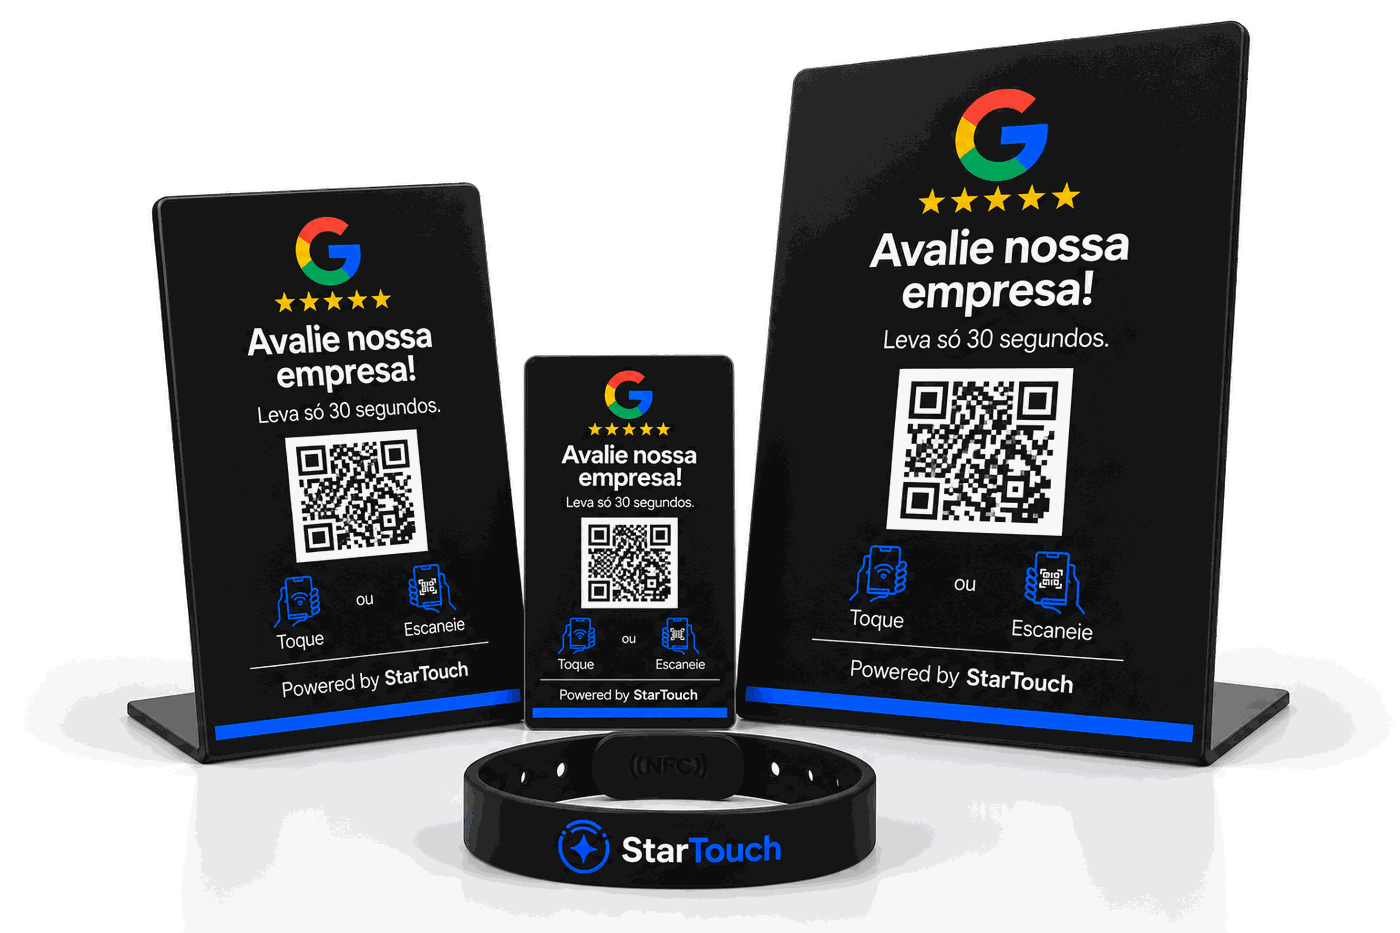
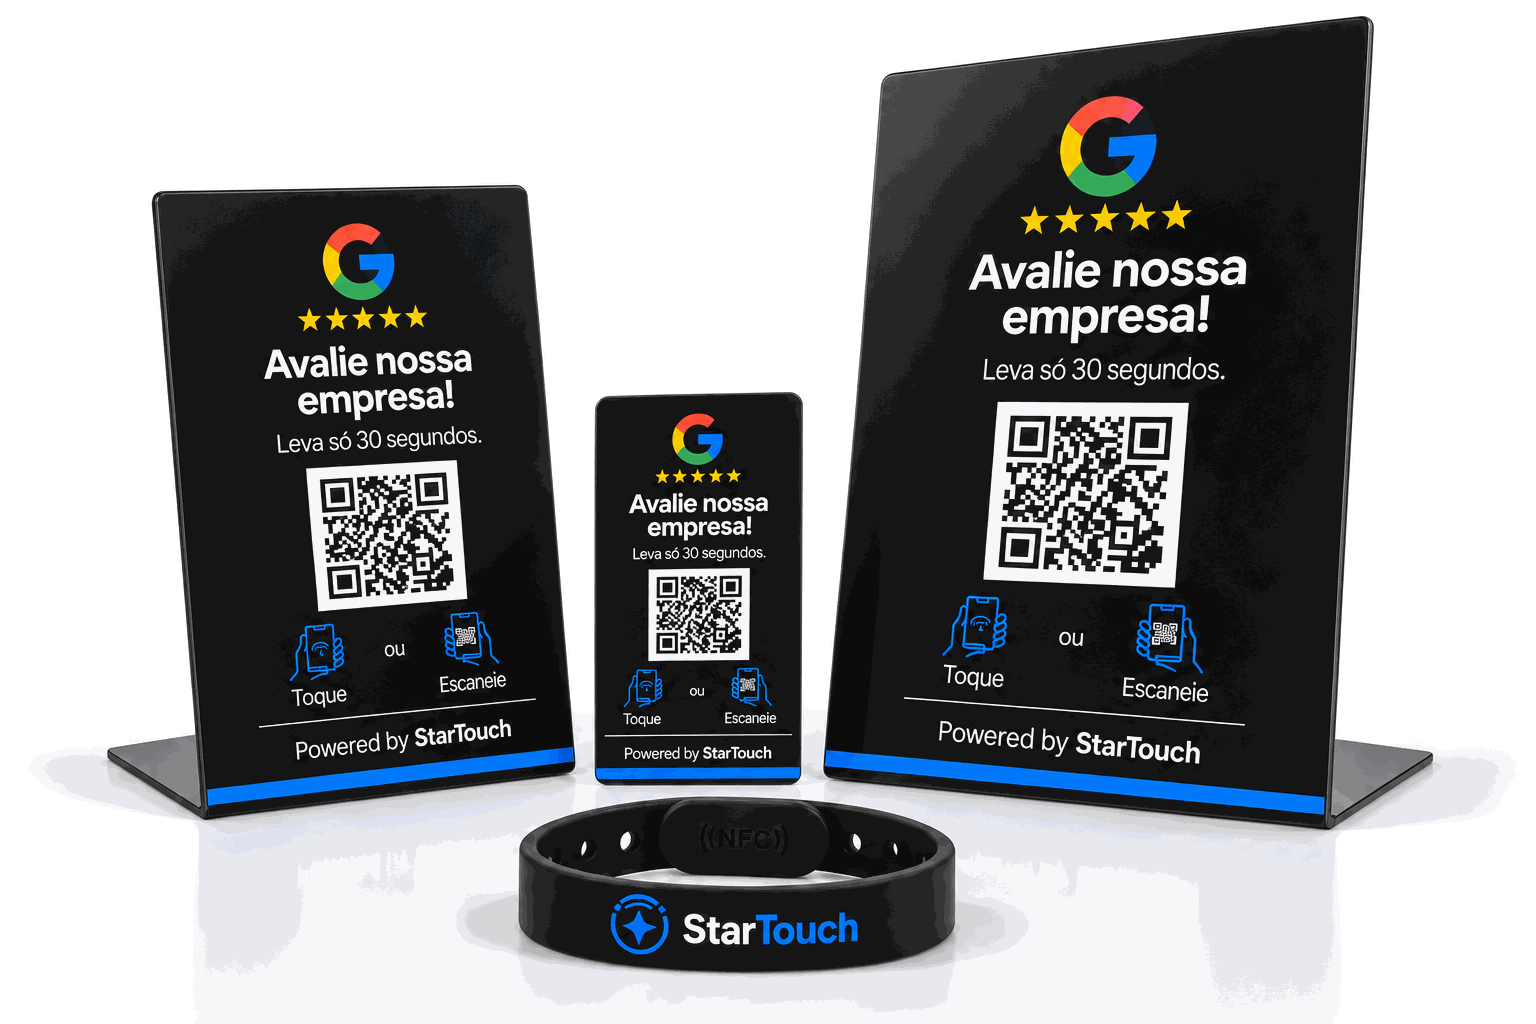
feat(revenda): foto nova da linha no topo — melhor iluminacao, mesma vaga
Versao que o Ricardo aprovou. Iluminacao mais limpa, reflexos sob as pecas e
o QR legivel mesmo reduzido.

VINHA COM FUNDO BRANCO OPACO, e a anterior era transparente. Sobre o degrade
do topo (#fff -> #f9fbff com um halo azul no canto) isso deixaria um
retangulo branco visivel. Recortada com flood fill a partir dos quatro
cantos, thresh 18 — baixo de proposito, porque o que corre risco aqui sao as
SOMBRAS sob os produtos: threshold agressivo as come junto com o fundo e as
pecas ficam flutuando sem chao.

Conferi compondo a imagem sobre o degrade REAL do hero, gerado pixel a pixel
com as mesmas cores do CSS — nao sobre xadrez nem sobre branco chapado. E a
unica forma de ver halo de verdade: sobre branco puro, halo branco nao
aparece.

1.704 KB -> 129 KB. As dimensoes no HTML foram corrigidas junto (era 1400x933,
agora 1536x1024): a proporcao mudou, e atributo errado faz o navegador
reservar espaco errado e a pagina pular quando a imagem carrega.

Claude-Session: https://claude.ai/code/session_01S5eKpJUpAx1ZzX8rzRNBTg

Changed region(s): [[0.0614, 0.0622, 0.9521, 0.9636], [0.645, 0.0, 0.8907, 0.0622], [0.8907, 0.0311, 0.9214, 0.0622]]

diff --git a/public/revenda.html b/public/revenda.html
@@ -308,7 +308,7 @@
 
     <aside class="heroArte">
       <figure class="foto">
-        <img src="/linha-startouch.png" width="1400" height="933" alt="A linha StarTouch em PS preto: Placa de Balcão G, Placa de Balcão M, Cartão de Avaliação NFC e Pulseira NFC, todos com QR Code e chip NFC"/>
+        <img src="/linha-startouch.png" width="1536" height="1024" alt="A linha StarTouch em PS preto: Placa de Balcão G, Placa de Balcão M, Cartão de Avaliação NFC e Pulseira NFC, todos com QR Code e chip NFC"/>
       </figure>
     </aside>
   </div>
